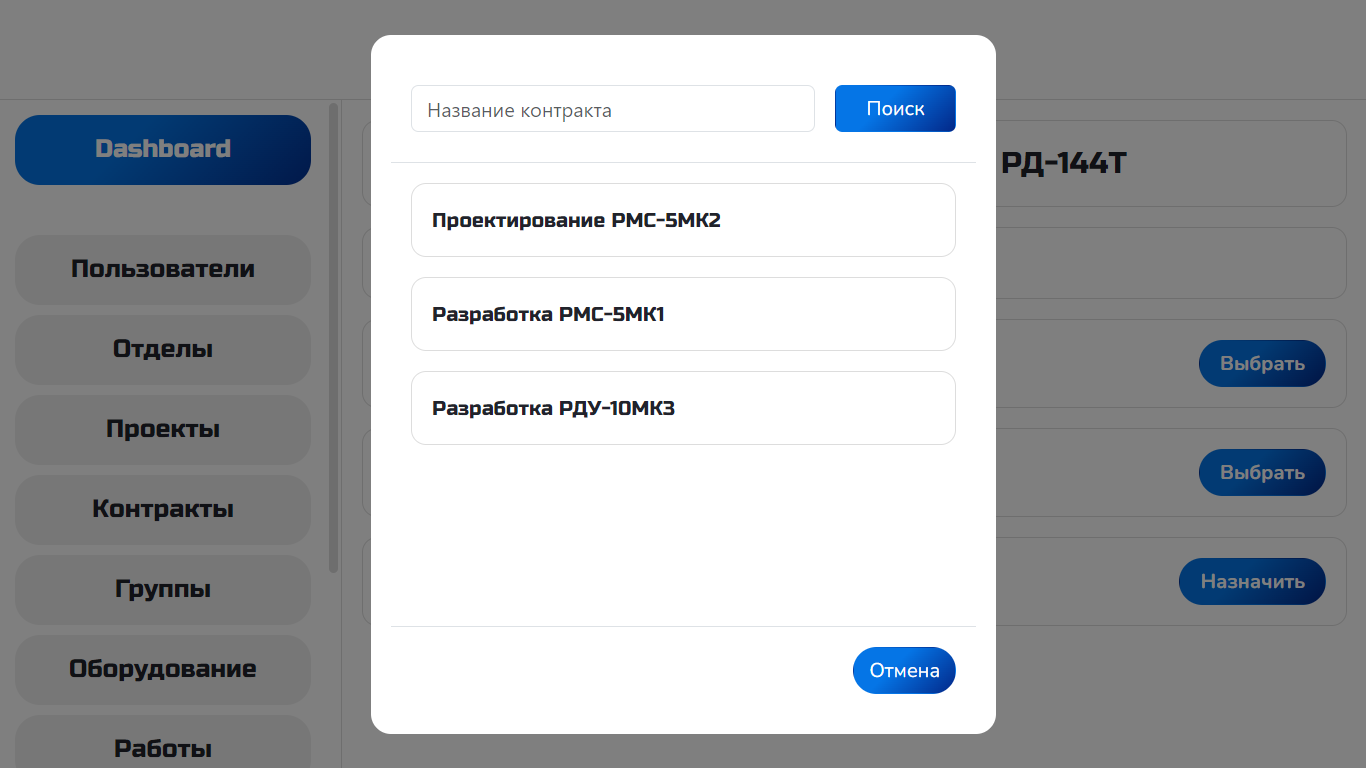
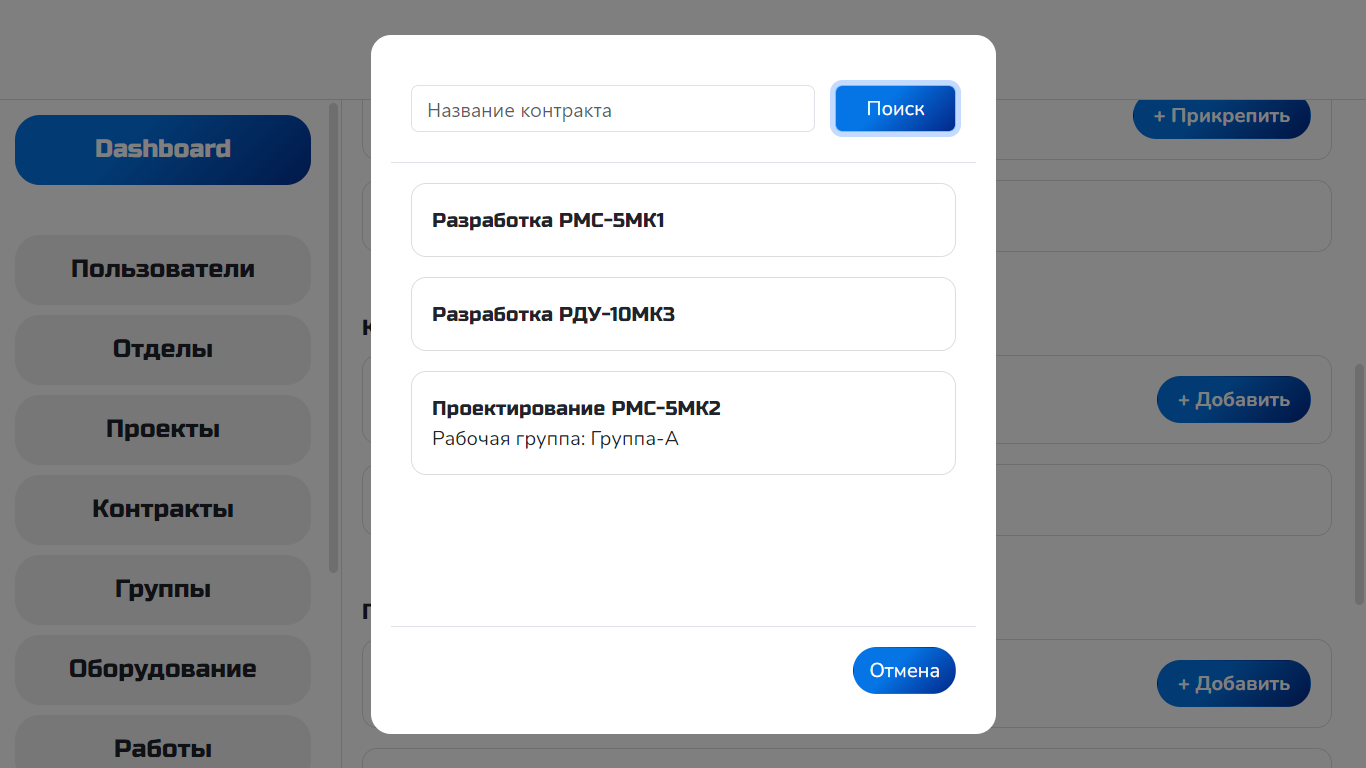
Update Group Profile

diff --git a/src/pages/dashboard/groups/GroupProfile.vue b/src/pages/dashboard/groups/GroupProfile.vue
@@ -112,7 +112,6 @@
         );
 
         if (response.isOk) {
-          this.pageIsReady = true
           await this.loadData()
         } else {
           if (response.code === 401) {
@@ -135,7 +134,6 @@
         );
 
         if (response.isOk) {
-          this.pageIsReady = true
           await this.loadData()
         } else {
           if (response.code === 401) {
@@ -158,7 +156,6 @@
         );
 
         if (response.isOk) {
-          this.pageIsReady = true
           await this.loadData()
         } else {
           if (response.code === 401) {
@@ -181,7 +178,6 @@
         );
 
         if (response.isOk) {
-          this.pageIsReady = true
           await this.loadData()
         } else {
           if (response.code === 401) {
@@ -204,7 +200,6 @@
         );
 
         if (response.isOk) {
-          this.pageIsReady = true
           await this.loadData()
         } else {
           if (response.code === 401) {

diff --git a/src/pages/dashboard/contracts/ContractProfile.vue b/src/pages/dashboard/contracts/ContractProfile.vue
@@ -110,7 +110,6 @@
         );
 
         if (response.isOk) {
-          this.pageIsReady = true
           await this.loadData()
         } else {
           if (response.code === 401) {
@@ -133,7 +132,6 @@
         );
 
         if (response.isOk) {
-          this.pageIsReady = true
           await this.loadData()
         } else {
           if (response.code === 401) {
@@ -156,7 +154,6 @@
         );
 
         if (response.isOk) {
-          this.pageIsReady = true
           await this.loadData()
         } else {
           if (response.code === 401) {

diff --git a/src/pages/dashboard/projects/ProjectProfile.vue b/src/pages/dashboard/projects/ProjectProfile.vue
@@ -110,7 +110,6 @@
         );
 
         if (response.isOk) {
-          this.pageIsReady = true
           await this.loadData()
         } else {
           if (response.code === 401) {
@@ -133,7 +132,6 @@
         );
 
         if (response.isOk) {
-          this.pageIsReady = true
           await this.loadData()
         } else {
           if (response.code === 401) {
@@ -156,7 +154,6 @@
         );
 
         if (response.isOk) {
-          this.pageIsReady = true
           await this.loadData()
         } else {
           if (response.code === 401) {

diff --git a/src/pages/dashboard/departments/DepartmentProfile.vue b/src/pages/dashboard/departments/DepartmentProfile.vue
@@ -94,7 +94,6 @@
         );
 
         if (response.isOk) {
-          this.pageIsReady = true
           await this.loadData()
         } else {
           if (response.code === 401) {
@@ -116,7 +115,6 @@
         );
 
         if (response.isOk) {
-          this.pageIsReady = true
           await this.loadData()
         } else {
           if (response.code === 401) {
@@ -139,7 +137,6 @@
         );
 
         if (response.isOk) {
-          this.pageIsReady = true
           await this.loadData()
         } else {
           if (response.code === 401) {

diff --git a/src/components/dashboard/dialogs/SelectEquipment.vue b/src/components/dashboard/dialogs/SelectEquipment.vue
@@ -94,6 +94,12 @@
         <a class="interstellarium-unit-link">
           {{ equipment.name }}
         </a>
+        <div v-show="equipment.group.id" class="interstellarium-unit-description">
+          Рабочая группа: {{ equipment.group.name }}
+        </div>
+        <div v-show="equipment.department.id" class="interstellarium-unit-description">
+          Отдел: {{ equipment.department.name }}
+        </div>
       </div>
     </template>
 

diff --git a/src/components/dashboard/dialogs/SelectContract.vue b/src/components/dashboard/dialogs/SelectContract.vue
@@ -94,6 +94,12 @@
         <a class="interstellarium-unit-link">
           {{ contract.name }}
         </a>
+        <div v-show="contract.chief.id" class="interstellarium-unit-description">
+          Руководитель: {{ contract.chief.name }}
+        </div>
+        <div v-show="contract.group.id" class="interstellarium-unit-description">
+          Рабочая группа: {{ contract.group.name }}
+        </div>
       </div>
     </template>
 

diff --git a/src/components/dashboard/dialogs/SelectProject.vue b/src/components/dashboard/dialogs/SelectProject.vue
@@ -94,6 +94,12 @@
         <a class="interstellarium-unit-link">
           {{ project.name }}
         </a>
+        <div v-show="project.chief.id" class="interstellarium-unit-description">
+          Руководитель: {{ project.chief.name }}
+        </div>
+        <div v-show="project.group.id" class="interstellarium-unit-description">
+          Рабочая группа: {{ project.group.name }}
+        </div>
       </div>
     </template>
 

diff --git a/src/components/dashboard/dialogs/SelectWork.vue b/src/components/dashboard/dialogs/SelectWork.vue
@@ -94,6 +94,12 @@
         <a class="interstellarium-unit-link">
           {{ work.name }}
         </a>
+        <div v-show="work.contract.id" class="interstellarium-unit-description">
+          Контракт: {{ work.contract.name }}
+        </div>
+        <div v-show="work.project.id" class="interstellarium-unit-description">
+          Проект: {{ work.project.name }}
+        </div>
       </div>
     </template>
 

diff --git a/src/pages/dashboard/equipment/EquipmentProfile.vue b/src/pages/dashboard/equipment/EquipmentProfile.vue
@@ -97,7 +97,6 @@
         );
 
         if (response.isOk) {
-          this.pageIsReady = true
           await this.loadData()
         } else {
           if (response.code === 401) {
@@ -120,7 +119,6 @@
         );
 
         if (response.isOk) {
-          this.pageIsReady = true
           await this.loadData()
         } else {
           if (response.code === 401) {

diff --git a/src/pages/dashboard/users/UserProfile.vue b/src/pages/dashboard/users/UserProfile.vue
@@ -98,7 +98,6 @@
         );
 
         if (response.isOk) {
-          this.pageIsReady = true
           await this.loadData()
         } else {
           if (response.code === 401) {
@@ -121,7 +120,6 @@
         );
 
         if (response.isOk) {
-          this.pageIsReady = true
           await this.loadData()
         } else {
           if (response.code === 401) {

diff --git a/src/components/dashboard/dialogs/SelectUser.vue b/src/components/dashboard/dialogs/SelectUser.vue
@@ -94,6 +94,9 @@
         <a class="interstellarium-unit-link">
           {{ user.name }}
         </a>
+        <div v-show="user.department.id" class="interstellarium-unit-description">
+          Отдел: {{ user.department.name }}
+        </div>
       </div>
     </template>
 
